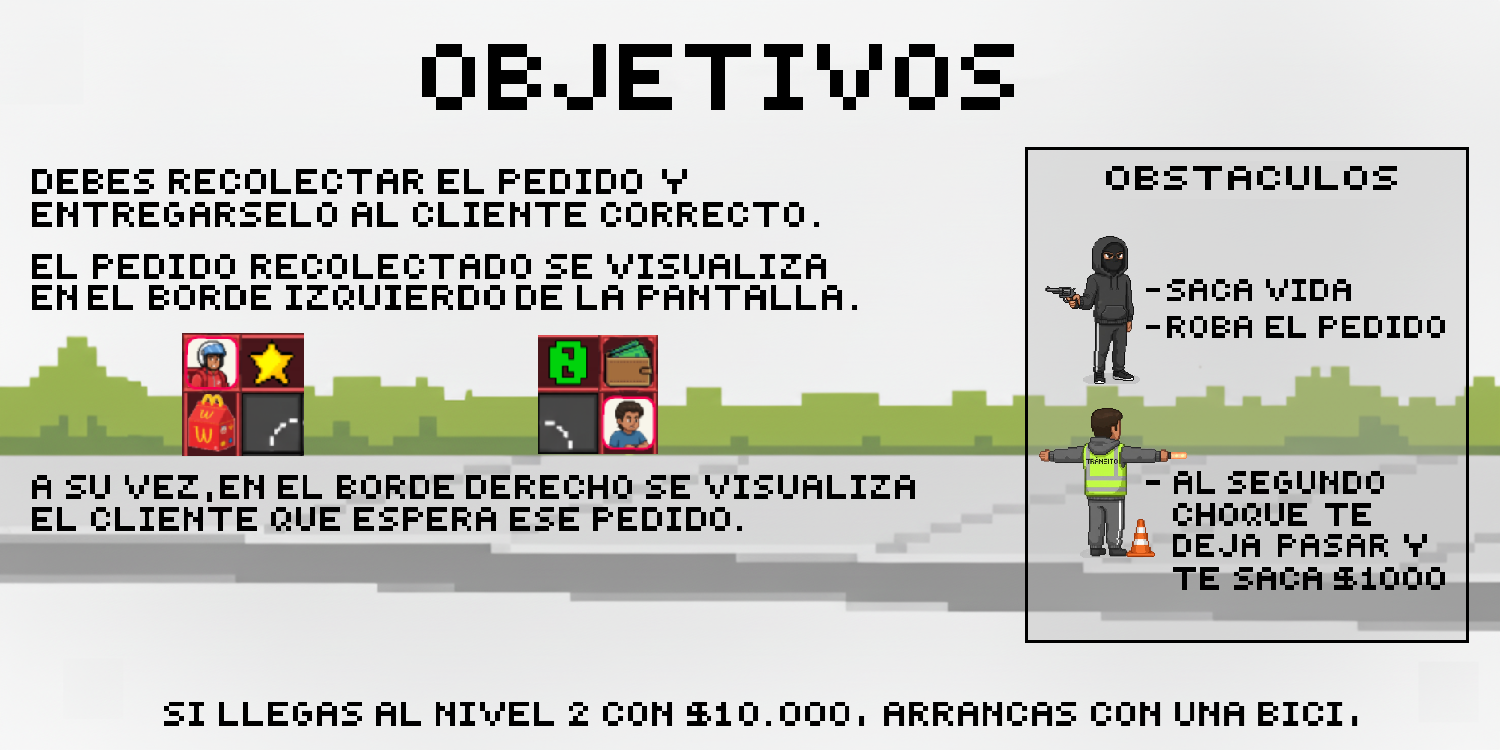
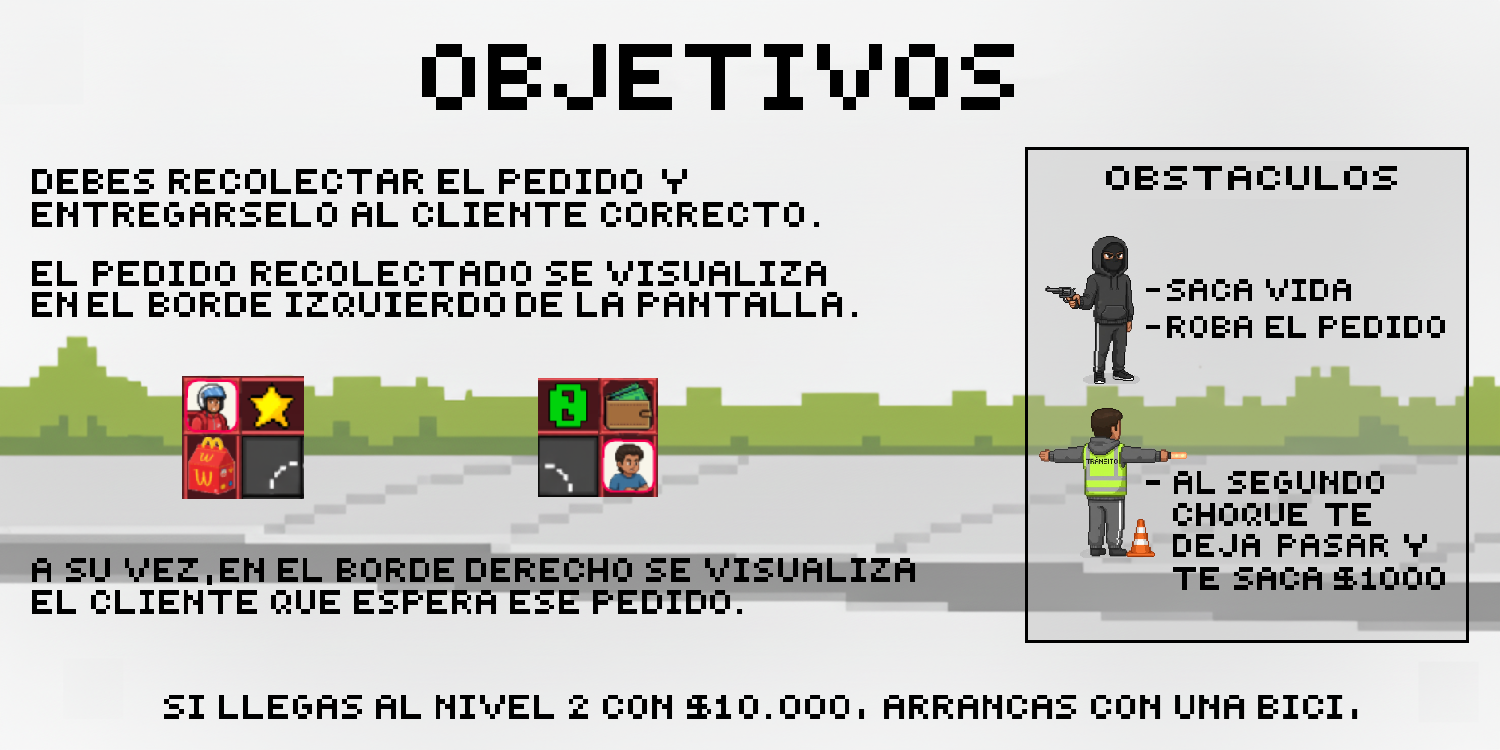
Update Pedido Simulator

Changed region(s): [[0.0, 0.3373, 0.6133, 0.7053], [0.0, 0.736, 0.6133, 0.828], [0.092, 0.92, 0.92, 0.9813]]

diff --git a/public/concurso2024/wlkGame-PedidoSimulator/readme.md b/public/concurso2024/wlkGame-PedidoSimulator/readme.md
@@ -9,7 +9,6 @@
 ## Capturas
 
 ![Menu Principal](assets/screenshots/screen_menu.png)
-![Instrucciones](assets/screenshots/screen_instrucciones.png)
 ![Creditos](assets/screenshots/screen_creditos.png)
 ![Partida](assets/screenshots/scren_lvl1.png)
 ![Game Over](assets/screenshots/screen_gameover.png)